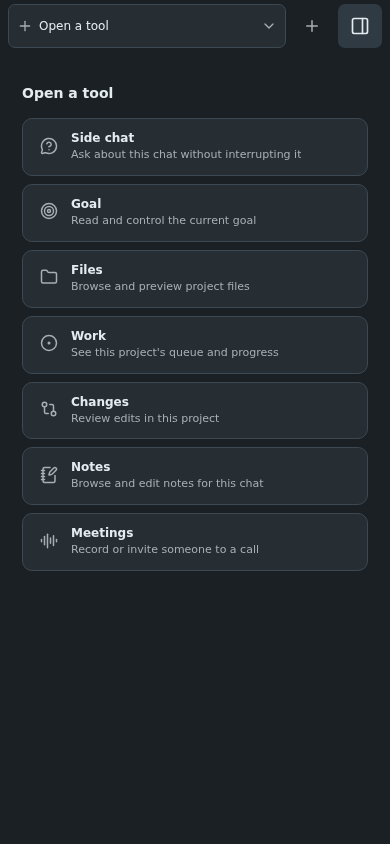
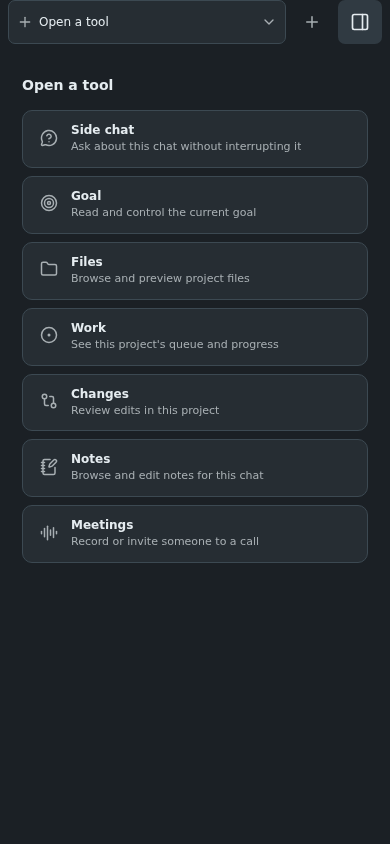
Tighten mobile utility tab bar

diff --git a/web/src/components/mux-sdk-utility.ts b/web/src/components/mux-sdk-utility.ts
@@ -1307,7 +1307,7 @@ export class MuxSDKUtility extends LitElement {
     mux-sdk-utility .mobile-tab-picker { display:none; }
     @media(max-width:767.98px) {
       mux-sdk-utility mux-ui-tab-strip { display:none; }
-      mux-sdk-utility .mobile-tab-picker { box-sizing:border-box; display:flex; align-items:center; flex:none; gap:var(--ui-space-2); min-height:var(--ui-nav-height); padding:var(--ui-space-2) var(--ui-space-4); }
+      mux-sdk-utility .mobile-tab-picker { box-sizing:border-box; display:flex; align-items:center; flex:none; gap:var(--ui-space-2); min-height:var(--ui-control-lg); padding:0 var(--ui-space-4); }
       mux-sdk-utility .mobile-tab-picker mux-ui-button { flex:none; }
       mux-sdk-utility .mobile-tab-trigger { box-sizing:border-box; display:flex; align-items:center; flex:1; gap:var(--ui-space-3); min-width:0; min-height:var(--ui-control-lg); padding:0 var(--ui-space-4); border:1px solid var(--ui-border); border-radius:var(--ui-radius-md); background:var(--ui-surface-raised); color:var(--ui-text); font:500 var(--ui-text-sm) var(--ui-font-sans); text-align:left; cursor:pointer; }
       mux-sdk-utility .mobile-tab-trigger:hover, mux-sdk-utility .mobile-tab-trigger[aria-expanded='true'] { border-color:var(--ui-text-muted); }
